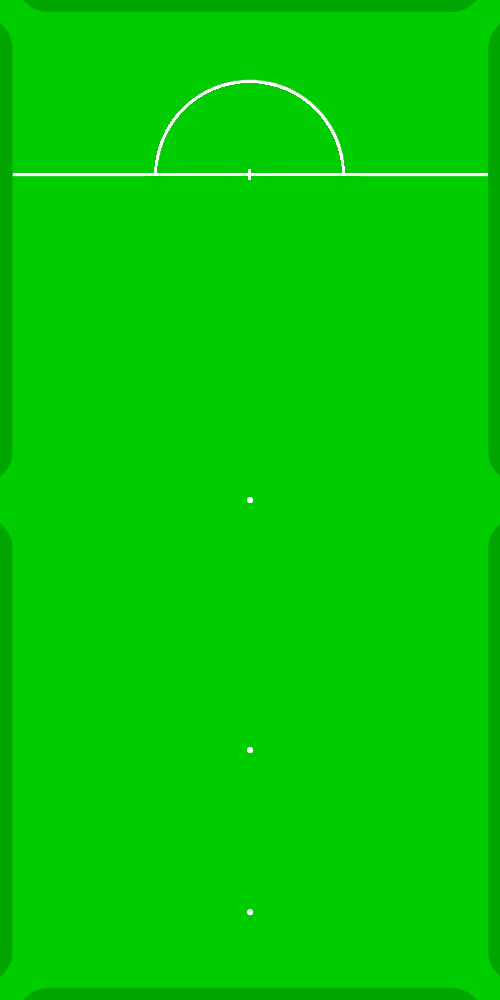
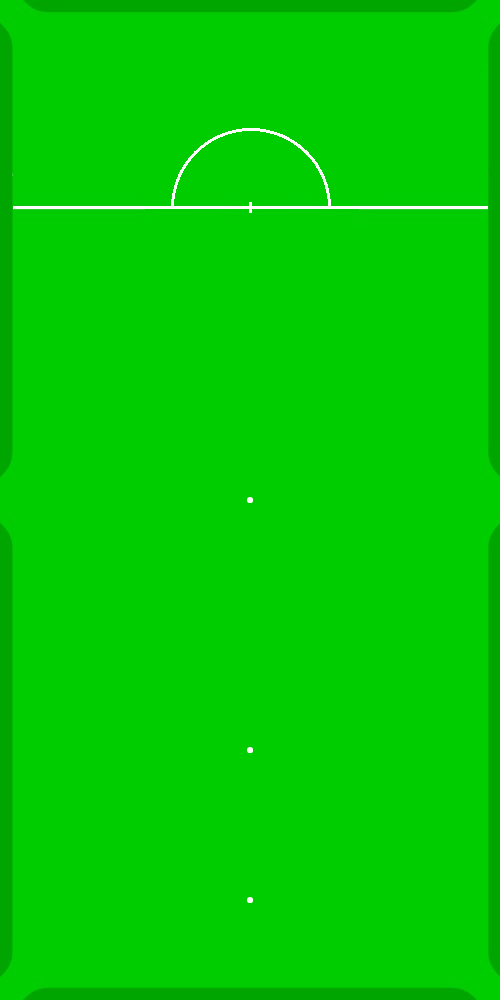
Test with a different view point
Edge detection failed; detected the same edge twice

diff --git a/main.py b/main.py
@@ -4,11 +4,26 @@ import numpy as np
 import matplotlib.pyplot as plt
 
 
+
+image_file = "images\\snooker1.png"
+sam.create_mask(
+    image_file=image_file,
+    input_points = np.array([[600, 600], [1300, 600], [1625, 855]]),
+    input_labels = np.array([1, 1, 0])) # 1=foreground, 0=background
+
+# image_file = "images\\snooker3.png"
 # sam.create_mask(
-#     image_file="images\\snooker1.png",
-#     input_points = np.array([[600, 600], [1300, 600], [1625, 855]]),
-#     input_labels = np.array([1, 1, 0])) # 1=foreground, 0=background
-edges = find_edges.get_edges("images\\snooker1.png")
+#     image_file=image_file,
+#     input_points = np.array([[600, 600], [1850, 250]]),
+#     input_labels = np.array([1, 0])) # 1=foreground, 0=background
+
+# plt.show()
+
+
+
+edges = find_edges.get_edges(image_file)
+
+
 
 # edges = np.array([[[ 9.44000000e+02,  1.58079637e+00]],
 #     [[ 3.21000000e+02,  1.57079637e+00]],
@@ -24,6 +39,8 @@ corners = find_edges.get_rect_corners(edges)
 
 # print(corners)
 
+
+
 # Snooker table measurements:
 # Internal playing surface from the nose of the cushion rubber: 11 foot 9 inches x 5 foot 9 inches
 # Cushion depth: 2"
@@ -35,11 +52,17 @@ homography = find_edges.get_homography(corners, [1854, 3683])
 
 # print(homography)
 
+
+
 [x, y] = find_edges.get_world_point([1448, 321], homography)
 
 # print(f"Transformed World Coordinates: ({x}, {y})")
 
-img_balls = find_edges.find_balls("images\\snooker1-masked.png")
+
+
+img_balls = find_edges.find_balls(image_file[:-4] + "-masked.png")
+
+
 
 # img_balls = [[500, 325],
 #  [1445, 325],
@@ -50,6 +73,10 @@ real_balls = []
 for ball in img_balls:
     real_balls.append(find_edges.get_world_point(ball, homography))
 
+
+
 find_edges.display_table(real_balls)
+
+
 
 plt.show()

diff --git a/find_edges.py b/find_edges.py
@@ -204,8 +204,6 @@ def get_edges(image_file, mask_file=""):
 
 
     # Get lines for original image
-    image_file = "images\\snooker1.png"
-    # image_file = "images\\snooker2.jpg"
     image = cv2.imread(image_file)
 
     # Mask image with dilated SAM mask
@@ -399,6 +397,8 @@ def get_world_point(image_point, homography):
     img_pts_homogeneous = np.array([image_point[0], image_point[1], 1], dtype=np.float32)
     world_pts_homogeneous = np.dot(homography, img_pts_homogeneous)
 
+    # print(world_pts_homogeneous)
+
     # Normalize by the third coordinate
     world_pts_normalized = world_pts_homogeneous / world_pts_homogeneous[2]
 
@@ -479,7 +479,7 @@ def display_table(ball_centers, table_dims=[1854, 3683], ball_size=52.5, window_
     
     white = (255, 255, 255)
     green = (34,139,34)
-    blue = (255, 0, 0)
+    blue = (0, 0, 255)
 
     # Create canvas
     canvas = np.zeros((trans(table_dims[1]), trans(table_dims[0]), 3), dtype="uint8")
